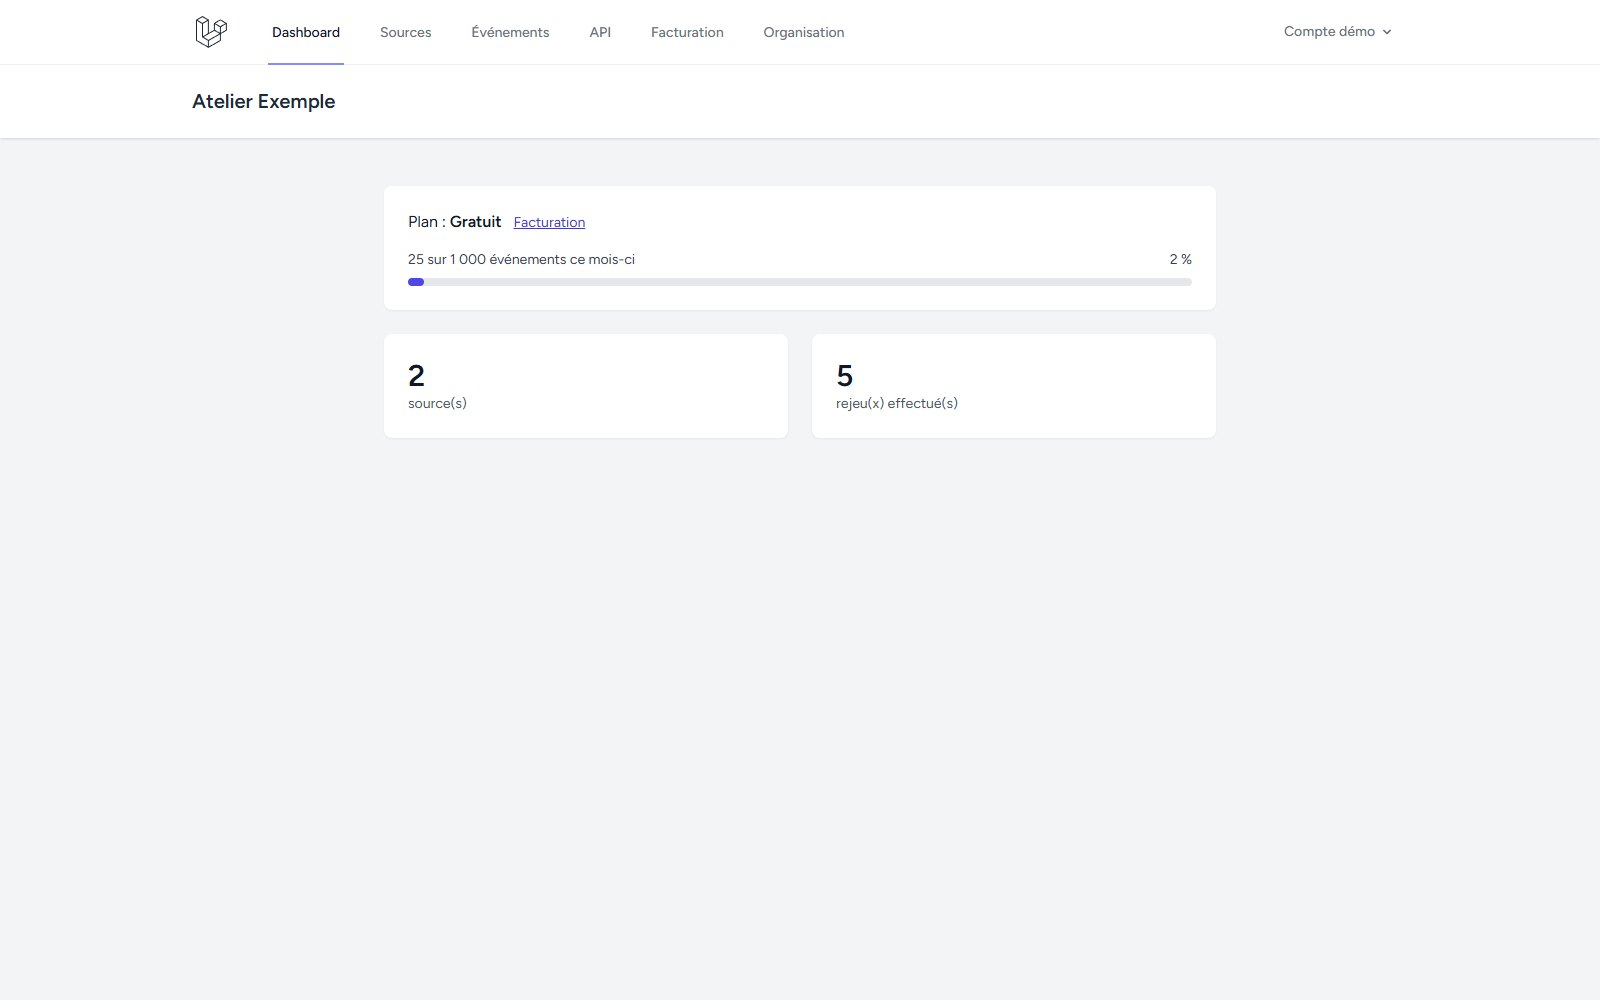
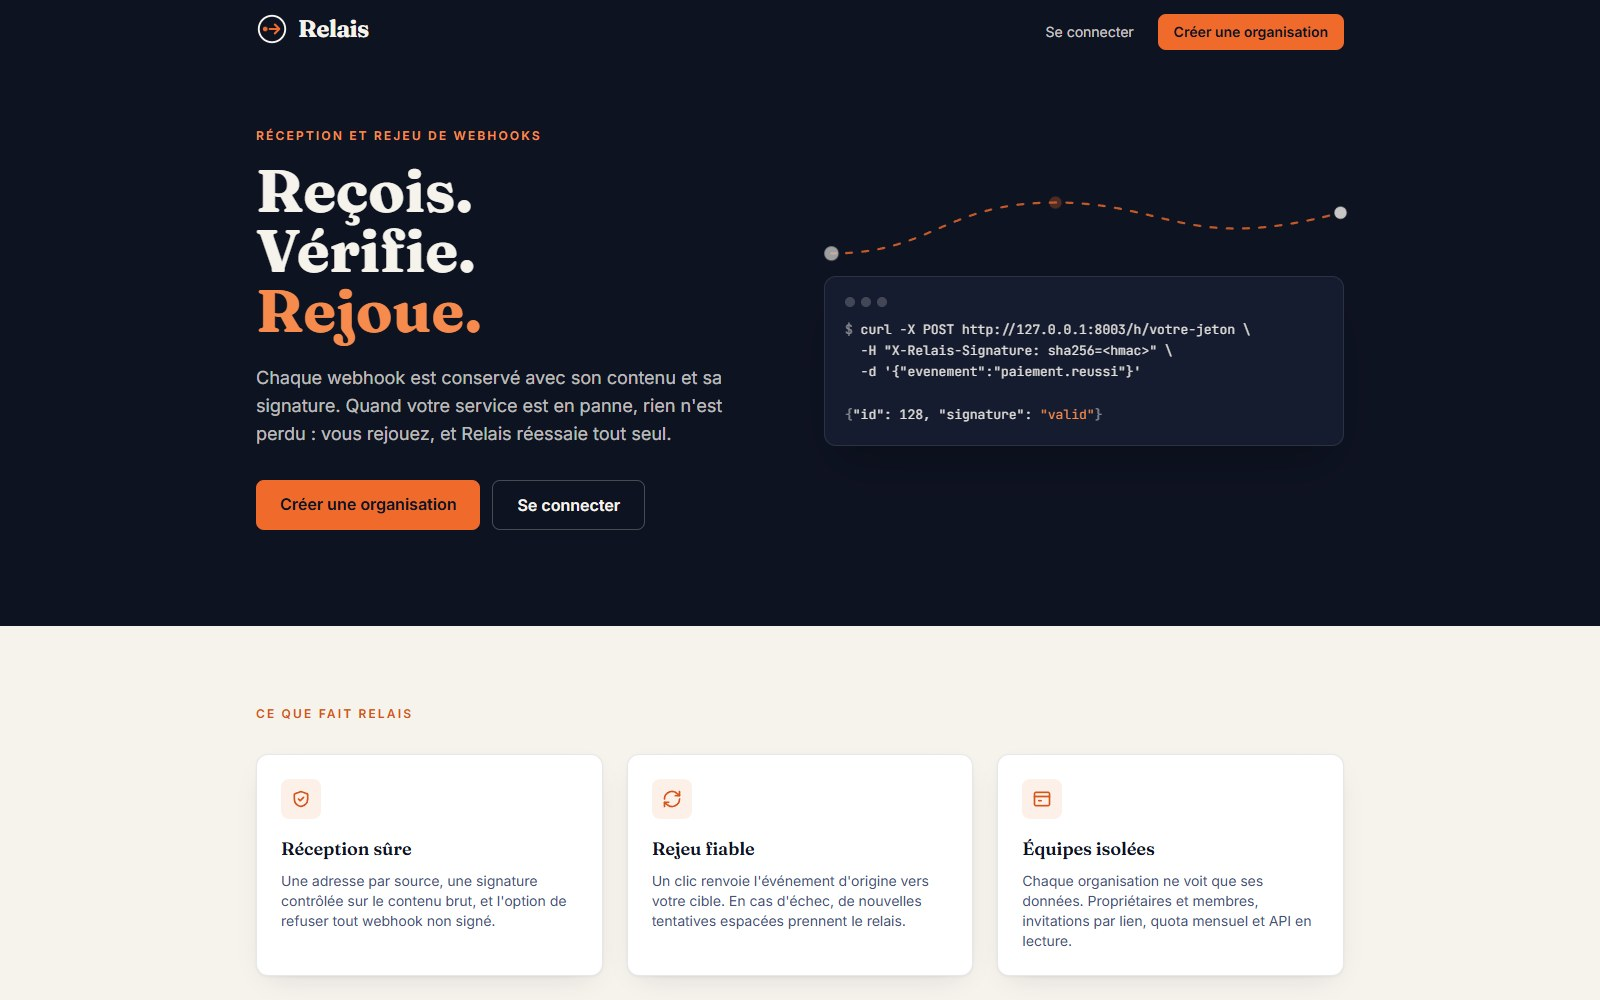
Met à jour les captures de Relais (nouveau design, trois images) et le nombre de tests

diff --git a/index.html b/index.html
@@ -296,11 +296,12 @@ const T = {
     p4a: "Réception de webhooks par adresse dédiée, signature HMAC vérifiée, rejeu par tâche en file avec nouvelles tentatives espacées.",
     p4b: "Isolation entre clients par un scope global, et un test par route prouvant qu'une autre organisation n'y accède pas.",
     p4c: "Plans avec quota mensuel, facturation derrière une interface avec un faux fournisseur (aucun paiement réel), API en lecture par clés.",
-    st4: "160 tests automatisés · 2 revues de sécurité assistées par IA · quota de 1 000 événements par mois en gratuit",
+    st4: "167 tests automatisés · 2 revues de sécurité assistées par IA · quota de 1 000 événements par mois en gratuit",
     note4: "Captures : organisation et données fictives d'exemple.",
-    alt4: "Captures de Relais : tableau de bord avec la consommation du quota, détail d'un événement reçu et de ses rejeux.",
-    cap4_0: "Tableau de bord : plan, consommation du quota mensuel, nombre de sources et de rejeux.",
-    cap4_1: "Détail d'un événement : contenu, en-têtes, signature vérifiée et historique des rejeux.",
+    alt4: "Captures de Relais : page d'accueil, tableau de bord avec la consommation du quota, détail d'un événement reçu et de ses rejeux.",
+    cap4_0: "Page d'accueil : le service en trois verbes, avec un exemple d'envoi signé.",
+    cap4_1: "Tableau de bord : plan, consommation du quota mensuel, activité des 14 derniers jours.",
+    cap4_2: "Détail d'un événement : contenu, en-têtes, signature vérifiée et historique des rejeux.",
     aPitch: "Développeur back-end avec 7 ans d'expérience : API, intégrations et automatisation de processus métier, et de plus en plus d'IA exécutée en local.",
     a1: "PHP / Symfony · 5 ans : CRM immobilier international, API REST (JWT, webhooks), Doctrine, optimisation SQL, migration vers Symfony 6.",
     a2: "Missions freelance full-stack · 1 an (2 × 6 mois) : interface de benchmarking en Vue.js avec moteur IA, puis plateforme de centralisation de données.",
@@ -353,11 +354,12 @@ const T = {
     p4a: "Webhook reception on a dedicated address, verified HMAC signature, queued replay with spaced retries.",
     p4b: "Tenant isolation through a global scope, and one test per route proving another organization cannot reach it.",
     p4c: "Plans with a monthly quota, billing behind an interface with a fake provider (no real payment), read-only API with keys.",
-    st4: "160 automated tests · 2 AI-assisted security reviews · free plan quota of 1,000 events per month",
+    st4: "167 automated tests · 2 AI-assisted security reviews · free plan quota of 1,000 events per month",
     note4: "Screenshots: sample fictional organization and data.",
-    alt4: "Screenshots of Relais: dashboard with quota usage, detail of a received event and its replays.",
-    cap4_0: "Dashboard: plan, monthly quota usage, number of sources and replays.",
-    cap4_1: "Event detail: body, headers, verified signature and replay history.",
+    alt4: "Screenshots of Relais: home page, dashboard with quota usage, detail of a received event and its replays.",
+    cap4_0: "Home page: the service in three verbs, with a signed sample request.",
+    cap4_1: "Dashboard: plan, monthly quota usage, activity over the last 14 days.",
+    cap4_2: "Event detail: body, headers, verified signature and replay history.",
     aPitch: "Back-end developer with 7 years of experience: APIs, integrations and business-process automation, and more and more AI running locally.",
     a1: "PHP / Symfony · 5 years: international real-estate CRM, REST APIs (JWT, webhooks), Doctrine, SQL optimisation, migration to Symfony 6.",
     a2: "Full-stack freelance missions · 1 year (2 × 6 months): Vue.js benchmarking interface with an AI engine, then a data-centralisation platform.",
@@ -404,7 +406,7 @@ const PROJECTS = [
     chips: ["PHP", "Laravel", "PostgreSQL", "Pest", "Sanctum", "Docker", "GitHub Actions"],
     href: null,   // dépôt non publié : pas de bouton « Voir le code »
     vid: null,
-    imgs: ["media/relais-1.jpg?v=1", "media/relais-2.jpg?v=1"], side: -1, z: -96, win: [0.7375, 0.8575] },
+    imgs: ["media/relais-1.jpg?v=2", "media/relais-2.jpg?v=2", "media/relais-3.jpg?v=2"], side: -1, z: -96, win: [0.7375, 0.8575] },
 ];
 
 const $ = id => document.getElementById(id);

diff --git a/light.html b/light.html
@@ -439,10 +439,10 @@ footer { position: relative; z-index: 3; padding: 18px var(--gutter) 26px; font-
             <li data-i18n="p4b">Isolation entre clients : chaque donnée est filtrée par organisation par un scope global, et chaque route a un test qui prouve qu'une autre organisation n'y accède pas.</li>
             <li data-i18n="p4c">Plans avec quota mensuel, facturation derrière une interface avec un faux fournisseur (aucun paiement réel), API en lecture par clés avec limitation de débit.</li>
           </ul>
-          <p class="stats" data-i18n="st4">160 tests automatisés · 2 revues de sécurité assistées par IA · quota de 1 000 événements par mois en gratuit</p>
+          <p class="stats" data-i18n="st4">167 tests automatisés · 2 revues de sécurité assistées par IA · quota de 1 000 événements par mois en gratuit</p>
           <div class="chips"><span>PHP</span><span>Laravel</span><span>PostgreSQL</span><span>Pest</span><span>Sanctum</span><span>Docker</span><span>GitHub Actions</span></div>
         </div>
-        <div class="rv d3"><div class="demo ornate" data-video="" data-img="media/relais-1.jpg?v=1,media/relais-2.jpg?v=1" data-alt="Captures de Relais : tableau de bord avec la consommation du quota, détail d'un événement reçu et de ses rejeux"><div class="ph"><b></b><span data-i18n="demo">Démo à venir</span></div></div><p class="note" data-i18n="note4"></p></div>
+        <div class="rv d3"><div class="demo ornate" data-video="" data-img="media/relais-1.jpg?v=2,media/relais-2.jpg?v=2,media/relais-3.jpg?v=2" data-alt="Captures de Relais : page d'accueil, tableau de bord avec la consommation du quota, détail d'un événement reçu et de ses rejeux"><div class="ph"><b></b><span data-i18n="demo">Démo à venir</span></div></div><p class="note" data-i18n="note4"></p></div>
       </div>
     </div>
   </section>
@@ -533,7 +533,7 @@ footer { position: relative; z-index: 3; padding: 18px var(--gutter) 26px; font-
       p4a: "Webhook reception on a dedicated address, HMAC signature verification, storage of body and headers, queued replay with spaced retries.",
       p4b: "Tenant isolation: every record is filtered by organization through a global scope, and every route has a test proving another organization cannot reach it.",
       p4c: "Plans with a monthly quota, billing behind an interface with a fake provider (no real payment), read-only API with keys and rate limiting.",
-      st4: "160 automated tests · 2 AI-assisted security reviews · free plan quota of 1,000 events per month",
+      st4: "167 automated tests · 2 AI-assisted security reviews · free plan quota of 1,000 events per month",
       note4: "Screenshots: sample fictional organization and data.",
       p1: "A web application to track campaigns, manage contacts and import data.",
       p1a: "FastAPI REST API with JWT authentication, user roles and protected routes.",
